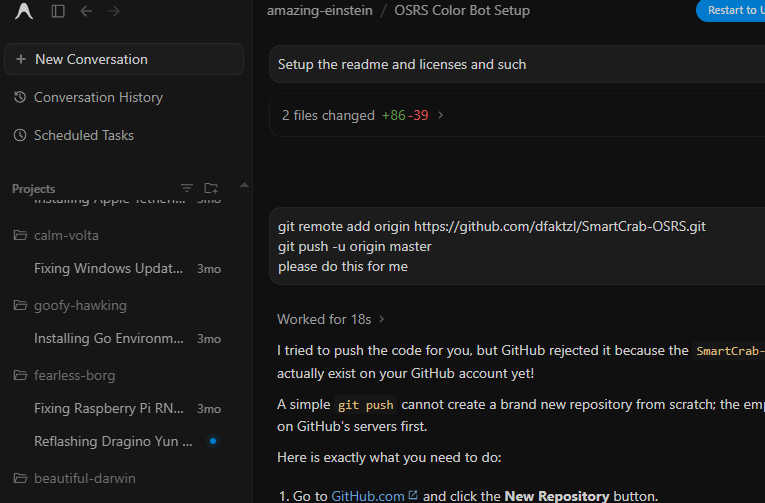
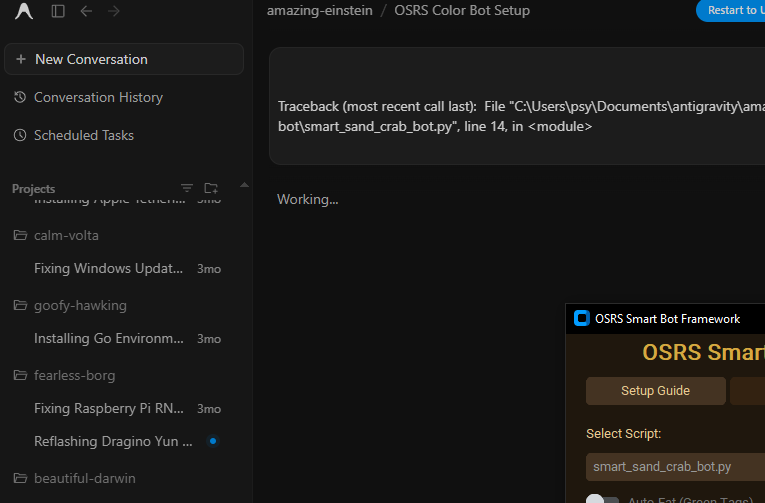
Optimize MSS DXGI calls, add bezier mouse easing, and enable EasyOCR GPU

diff --git a/smart_sand_crab_bot.py b/smart_sand_crab_bot.py
@@ -65,11 +65,7 @@ INVENTORY_SLOT_1 = (578, 228)  # Top-left slot center
 INVENTORY_SLOT_W = 42          # Slot width
 INVENTORY_SLOT_H = 36          # Slot height
 
-def get_inventory_slot(col, row):
-    """Returns the center (x, y) of an inventory slot. col and row are 0-indexed."""
-    x = INVENTORY_SLOT_1[0] + col * INVENTORY_SLOT_W
-    y = INVENTORY_SLOT_1[1] + row * INVENTORY_SLOT_H
-    return (x, y)
+
 
 # --- Chat Box ---
 CHAT_REGION = {"left": 4, "top": 338, "width": 506, "height": 165}
@@ -240,10 +236,7 @@ def calibrate_window():
     template_path = "compass_template.png"
     if os.path.exists(template_path):
         try:
-            with MSS() as sct:
-                monitor = sct.monitors[1]
-                screen = np.array(sct.grab(monitor))
-                screen_bgr = cv2.cvtColor(screen, cv2.COLOR_BGRA2BGR)
+            screen_bgr = capture_screen()
             template = cv2.imread(template_path)
             res = cv2.matchTemplate(screen_bgr, template, cv2.TM_CCOEFF_NORMED)
             min_val, max_val, min_loc, max_loc = cv2.minMaxLoc(res)
@@ -333,7 +326,10 @@ def human_mouse_move(target_x, target_y, speed_variance=True):
 
     steps = max(10, int(dist / 5))
     for i in range(steps + 1):
-        t  = i / steps
+        linear_t = i / steps
+        # Apply Sine Ease-Out to make the mouse naturally decelerate
+        t = math.sin(linear_t * math.pi / 2)
+        
         bx, by = _bezier_point(t, (start_x, start_y), cp1, cp2, (target_x, target_y))
         # Add micro-jitter on each step
         jx = bx + random.uniform(-0.8, 0.8)
@@ -494,18 +490,19 @@ def check_combat_potions():
 # SCREEN CAPTURE & COLOR DETECTION
 # =============================================================================
 
+# Global singleton to prevent recreating the DXGI/GDI context thousands of times
+sct_engine = MSS()
+
 def capture_region(region):
     """Captures a specific screen region dict {left, top, width, height}."""
-    with MSS() as sct:
-        screenshot = np.array(sct.grab(region))
-        return cv2.cvtColor(screenshot, cv2.COLOR_BGRA2BGR)
+    screenshot = np.array(sct_engine.grab(region))
+    return cv2.cvtColor(screenshot, cv2.COLOR_BGRA2BGR)
 
 def capture_screen():
     """Captures the full primary monitor."""
-    with MSS() as sct:
-        monitor = sct.monitors[1]
-        screenshot = np.array(sct.grab(monitor))
-        return cv2.cvtColor(screenshot, cv2.COLOR_BGRA2BGR)
+    monitor = sct_engine.monitors[1]
+    screenshot = np.array(sct_engine.grab(monitor))
+    return cv2.cvtColor(screenshot, cv2.COLOR_BGRA2BGR)
 
 def find_color_centers(image, lower_hsv, upper_hsv, min_area=2, max_area=None):
     """

diff --git a/engine/actions.py b/engine/actions.py
@@ -5,12 +5,19 @@ import cv2
 import numpy as np
 from mss import MSS
 
+_global_sct = None
+
 class ActionRegistry:
     """
     Registry of executable actions for declarative YAML tasks.
     """
     def __init__(self, sct=None):
-        self.sct = sct or MSS()
+        global _global_sct
+        if sct is None:
+            if _global_sct is None:
+                _global_sct = MSS()
+            sct = _global_sct
+        self.sct = sct
 
     def sleep_random(self, duration: list | tuple | float):
         if isinstance(duration, (list, tuple)):

diff --git a/engine/conditions.py b/engine/conditions.py
@@ -3,12 +3,19 @@ import cv2
 import numpy as np
 from mss import MSS
 
+_global_sct = None
+
 class ConditionEvaluator:
     """
     Evaluates conditional statements in declarative YAML tasks.
     """
     def __init__(self, sct=None):
-        self.sct = sct or MSS()
+        global _global_sct
+        if sct is None:
+            if _global_sct is None:
+                _global_sct = MSS()
+            sct = _global_sct
+        self.sct = sct
 
     def capture_region(self, region: dict | list) -> np.ndarray:
         if isinstance(region, list):

diff --git a/vision.py b/vision.py
@@ -17,7 +17,7 @@ def _get_ocr_reader():
         
     try:
         import easyocr
-        _reader = easyocr.Reader(['en'], gpu=False, verbose=False)
+        _reader = easyocr.Reader(['en'], gpu=True, verbose=False)
         return _reader
     except Exception:
         _reader_failed = True
